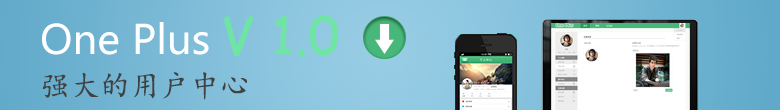
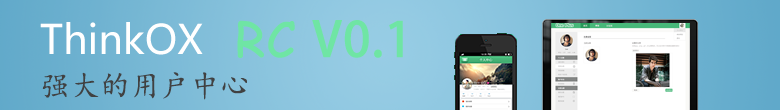
替换新的系统内容

Changed region(s): [[0.0308, 0.1364, 0.5231, 0.5455]]

diff --git a/Application/Weibo/Widget/UserListWidget.class.php b/Application/Weibo/Widget/UserListWidget.class.php
@@ -19,7 +19,7 @@ class UserListWidget extends Action
 {
 
     /* 显示指定分类的同级分类或子分类列表 */
-    public function lists($map = '', $order = 'reg_time desc')
+    public function lists($map = '', $order = 'id desc')
     {
         $users = S('weibo_latest_user');
         if (empty($users)) {
